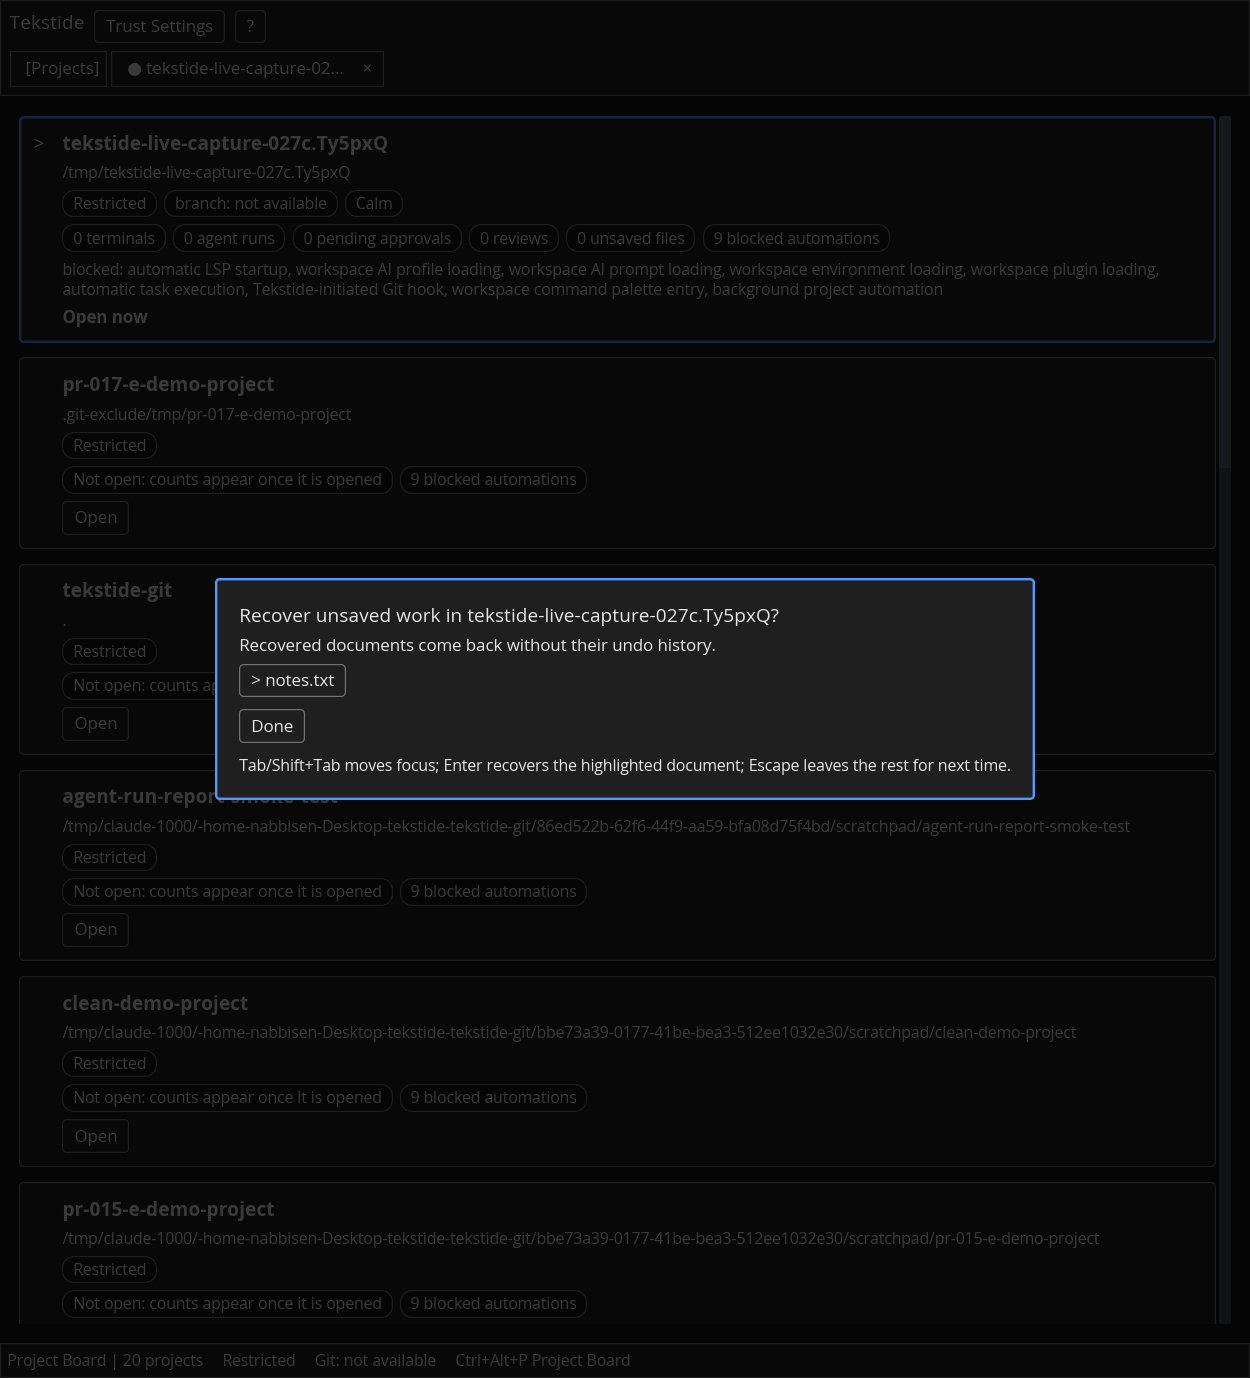
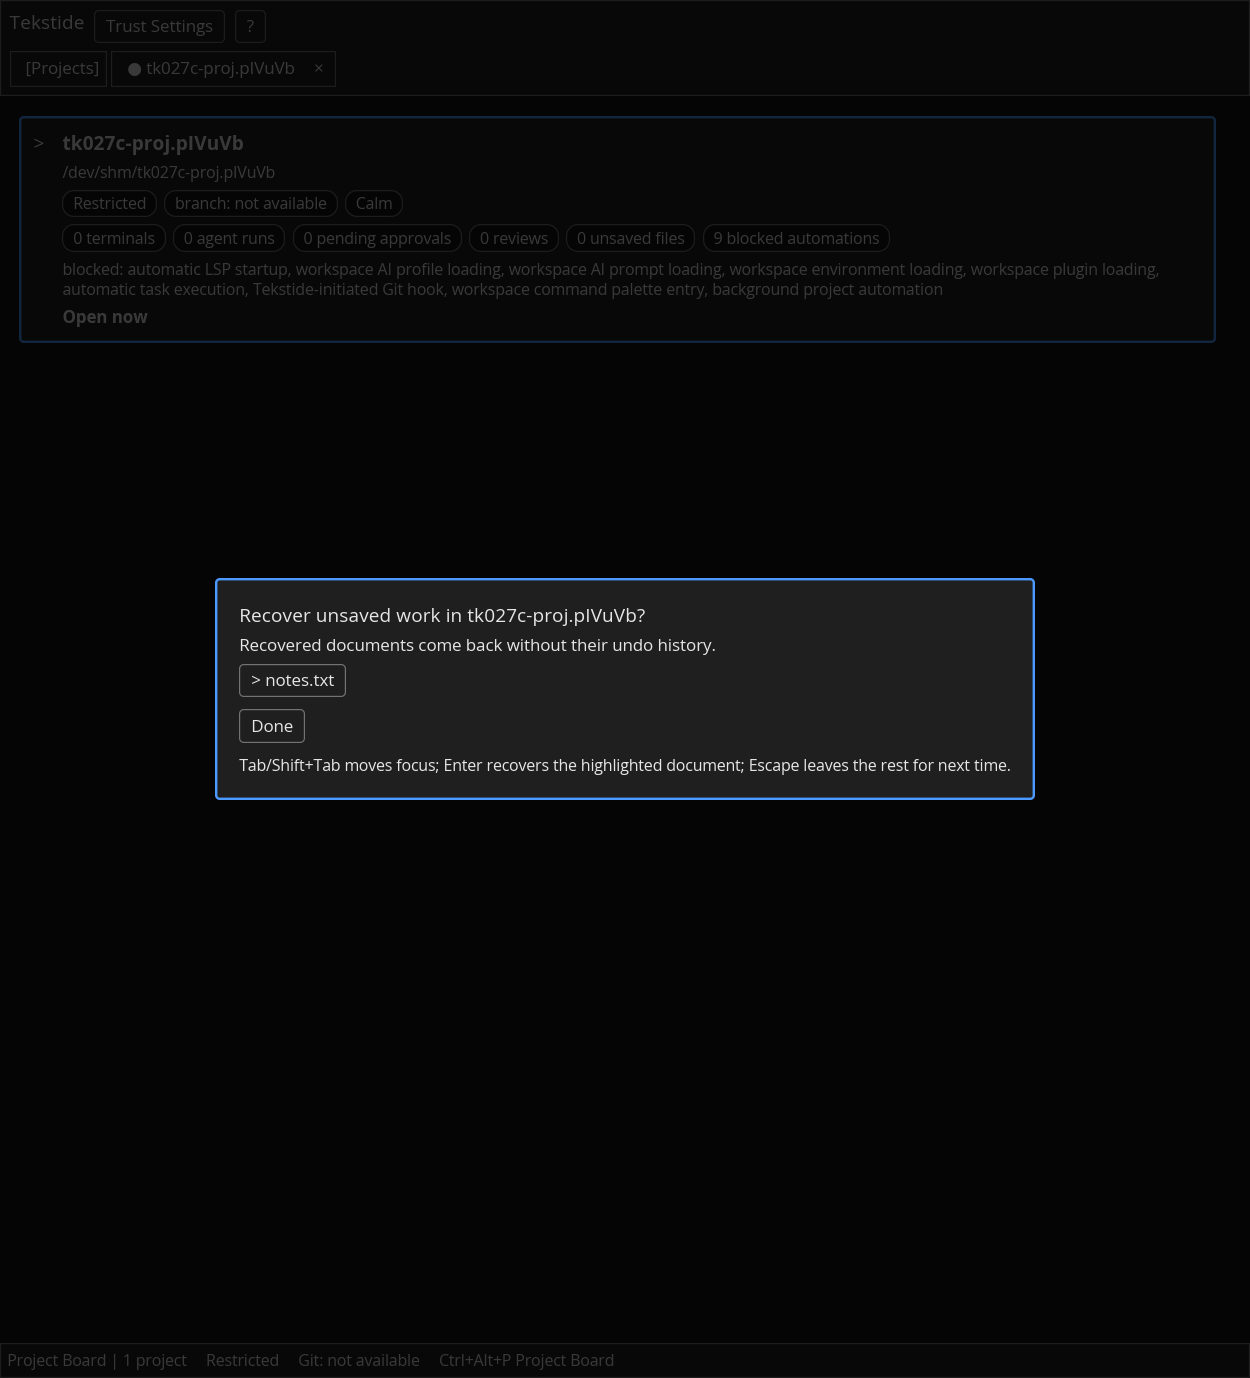
RFC-027 PR-027-C: retake 01/02 with an isolated XDG_STATE_HOME
Review 493's required fix: the first capture session used the real state directory,
so the Project Board behind the modal in 01/02 showed the owner's real
recent-projects.json -- twenty entries, including other sessions' own scratchpad
paths that encode the real home layout inside a /tmp/... path. 'No path under
$HOME' was true read literally and missed the mechanism.

Retaken against a throwaway XDG_STATE_HOME under /dev/shm, matching PR-065-C/
PR-065-D's own established practice. Both images now show exactly one project,
nothing from any other session. 03 is unchanged -- it never showed the Project
Board and was not disclosing.

Not rewriting published history, per instruction: a new commit, main stays
append-only.

Published history, not rewritten, per instruction.

diff --git a/rfcs/handoffs/027-crash-recovery/evidence/pr-027-c/README.md b/rfcs/handoffs/027-crash-recovery/evidence/pr-027-c/README.md
@@ -1,17 +1,36 @@
 # PR-027-C evidence
 
-Fixture: a throwaway project under `mktemp -d /tmp/tekstide-live-capture-027c.XXXXXX` with one
-file, `notes.txt`, two lines. Captured against `target/debug/tekstide`, window-managed with
-`niri`, keys sent with `wtype`, each key preceded by an explicit
-`niri msg focused-window`/`niri msg action focus-window --id <n>` check. No test-isolated
-`XDG_STATE_HOME` was used (the real one, matching what a user's own launch would read) --
-`recent-projects.json`, the recovery instance marker, and the recovery record were all removed
-from the real state directory afterward, by hand, to leave the environment as found.
+Two capture sessions. `03` is from the first; `01`/`02` are from a second, retaken session --
+review 493 found the first session's own `01`/`02` disclosed the owner's real `recent-projects.json`
+(twenty entries, including other sessions' own `/tmp/.../-home-nabbisen-...` scratchpad paths,
+which encode the real `$HOME` layout even though the paths themselves read `/tmp/...`). `03` never
+showed the Project Board at all, so it was not disclosing and was kept as is.
 
-## The scenario, step by step
+## First session (produced `03` only)
 
-1. Launched `tekstide /tmp/tekstide-live-capture-027c.XXXXXX` (a fresh project, added via the
-   CLI-argument path).
+A throwaway project under `mktemp -d /tmp/tekstide-live-capture-027c.XXXXXX`, no isolated
+`XDG_STATE_HOME` (the real one). The real `recent-projects.json`, the recovery instance marker and
+record were all removed from the real state directory by hand afterward -- confirmed clean by
+review 493's own check before it found the disclosure in `01`/`02`.
+
+## Second session (produced `01` and `02`, retaken)
+
+**Corrected per review 493**: a throwaway project *and* a throwaway `XDG_STATE_HOME`, both under
+`/dev/shm` -- `mktemp -d /dev/shm/tk027c-proj.XXXXXX` and `mktemp -d /dev/shm/tk027c-state.XXXXXX`,
+`XDG_STATE_HOME` passed directly to the `tekstide` invocation. The same isolation PR-065-C/PR-065-D
+already used, and should have been used here from the start. The Project Board shows exactly one
+project in this session's own screenshots, `"1 project"` in the status bar -- nothing from any
+other session, real or otherwise, anywhere in the frame.
+
+Both sessions: captured against `target/debug/tekstide`, window-managed with `niri`, keys sent with
+`wtype`, each key preceded by an explicit `niri msg focused-window`/
+`niri msg action focus-window --id <n>` check. Both fixtures and both state directories were
+removed after their own session; the second session touched nothing under the real `$HOME` or the
+real state directory at all.
+
+## The scenario, step by step (both sessions, identical shape)
+
+1. Launched `tekstide <project>` (a fresh project, added via the CLI-argument path).
 2. Opened `notes.txt`, typed `UNSAVED EDIT -- ` at the start -- a real, unsaved edit, never saved.
 3. Waited past one `RECOVERY_PERSIST_INTERVAL` tick (2 seconds) for the real record to be written.
    Confirmed on disk before continuing: `recovery/records/<project_id>/<hash>.json`, `text` holding
@@ -22,11 +41,12 @@ from the real state directory afterward, by hand, to leave the environment as fo
    `this file changed on disk after the crash\nnobody at the keyboard wrote this\n`, 76 bytes. This
    is the changed-on-disk case the task-breakdown's own "Live capture" section names explicitly
    ("capture the *changed-on-disk* case rather than the easy one").
-6. Relaunched `tekstide` against the same project path.
+6. Relaunched `tekstide` against the same project path (and, in the second session, the same
+   `XDG_STATE_HOME`).
 
 ## `01-recovery-offer-pending.png` -- the offer, driven by the record alone
 
-The offer opens immediately on restart: **"Recover unsaved work in tekstide-live-capture-027c…?"**,
+The offer opens immediately on restart: **"Recover unsaved work in tk027c-proj…?"**,
 **"Recovered documents come back without their undo history"** (D3, §3 row 10 -- the item review
 492 required a direct render proof for; this is that proof, the gap no unit test in this codebase
 could close on its own), and the row `notes.txt`, not yet decided.
@@ -56,19 +76,20 @@ entirely, the real data-loss bug this slice's own second round of review was abo
 **recovered** text (`UNSAVED EDIT -- saved content, line one` / `saved content, line two`), not
 the real file's own current content (`this file changed on disk after the crash` /
 `nobody at the keyboard wrote this`) -- the recovered buffer, not a silent reload over it, exactly
-as D4 requires.
+as D4 requires. (First session's own project name, `tekstide-live-capture-027c.Ty5pxQ`, appears in
+this image's own tab/sidebar text -- the project name itself, not a path, and not under `$HOME`.)
 
 ## A confirming detail, not asked for but worth recording
 
-The recovery record for `notes.txt` was **not simply gone** after this capture -- a fresh one
-existed, timestamped to the external modification in step 5 (`modified_at_secs`/`len: 76`
-matching the file as changed, not the file as it stood at the original crash). This is correct,
-not a leak: D11 removes a record the moment *its own reason* ends (saved, closed, or recovered) --
-the *original* pre-crash record was removed the instant `recover_highlighted_offer_item` ran
-(confirmed by its own absence under the original hash), but the recovered buffer is **still
-dirty** (a `Conflict`-state document counts as dirty), so the ordinary persist tick protects it
-again, exactly as it would protect any other unsaved document, including this newly-recovered one,
-against a second crash.
+In both sessions, the recovery record for `notes.txt` was **not simply gone** after the capture --
+a fresh one existed, timestamped to the external modification in step 5 (`modified_at_secs`/
+`len: 76` matching the file as changed, not the file as it stood at the original crash). This is
+correct, not a leak: D11 removes a record the moment *its own reason* ends (saved, closed, or
+recovered) -- the *original* pre-crash record was removed the instant
+`recover_highlighted_offer_item` ran (confirmed by its own absence under the original hash), but
+the recovered buffer is **still dirty** (a `Conflict`-state document counts as dirty), so the
+ordinary persist tick protects it again, exactly as it would protect any other unsaved document,
+including this newly-recovered one, against a second crash.
 
 ## Same focus-zone note PR-065-D's own evidence already recorded
 
@@ -78,3 +99,13 @@ README already documented: `Tab`/`Tab` (or `Tab` once from a project workspace) 
 `Tab`/`Tab` again to reach `MainArea` before typing is accepted anywhere. Confirmed, not
 rediscovered as a surprise -- `FocusZone` (`crates/tekstide/src/input.rs`) has not changed shape
 since PR-065-D's own capture.
+
+## The lesson this retake is itself evidence of
+
+"No path in any image is under `$HOME`" (the first session's own claim) was literally true and
+still wrong: the real `recent-projects.json`'s own entries, drawn from *other* sessions' scratchpad
+directories, encode the real home layout inside a `/tmp/...` path, not as a `/home/...` prefix.
+The check that matters is whether the real, shared `recent-projects.json` was ever in frame at
+all -- not whether any single path happens to start with `/home`. A throwaway `XDG_STATE_HOME` is
+what actually guarantees the answer is no, which is why the second session uses one and the first
+did not.
